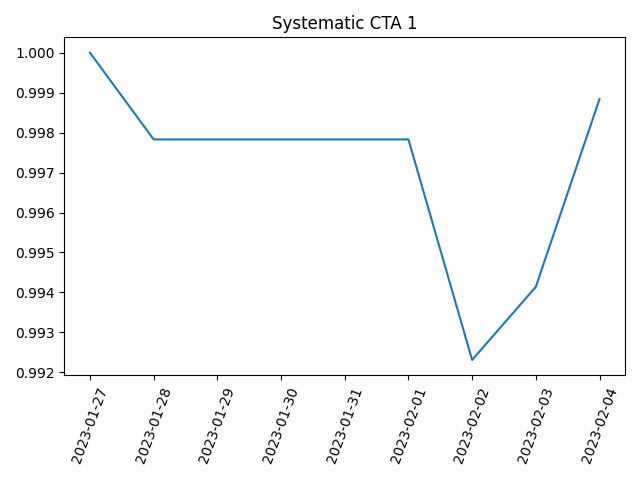
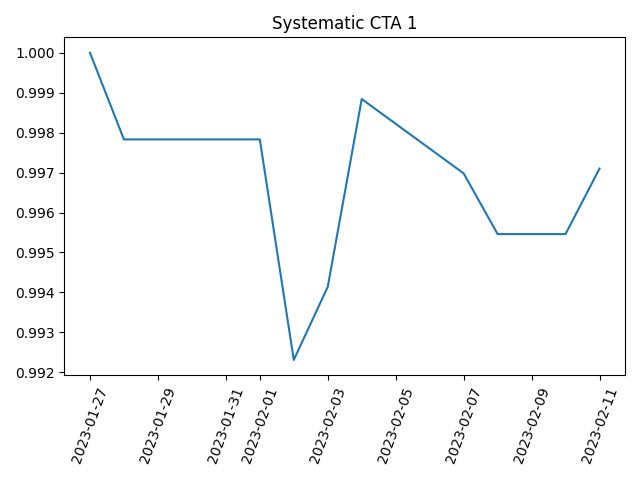
Add records

diff --git a/_posts/2023-01-29-2023-trades.md b/_posts/2023-01-29-2023-trades.md
@@ -12,40 +12,231 @@ hidden: true
 ## Equity Curve (Live Trading)
 ![Markdown Image][1]
 
-## Jan 30 (Mon)- Feb 5 (Sun)	
+## Feb 6 (Mon)- Feb 12 (Sun)	
 <table border="1" class="dataframe">
   <thead>
     <tr style="text-align: right;">
-      <th>datetime</th>
-      <th>bar_datetime</th>
-      <th>strategy_portfolio_value</th>
+      <th></th>
+      <th>metrics</th>
     </tr>
   </thead>
   <tbody>
     <tr>
-      <td>2023-01-31 02:59:40</td>
-      <td>2023-01-31 03:00:00</td>
-      <td>0.99783</td>
+      <th>start_date</th>
+      <td>2023-02-07</td>
     </tr>
     <tr>
-      <td>2023-02-01 02:59:48</td>
-      <td>2023-02-01 03:00:00</td>
-      <td>0.99783</td>
+      <th>end_date</th>
+      <td>2023-02-11</td>
     </tr>
     <tr>
-      <td>2023-02-02 02:59:24</td>
-      <td>2023-02-02 03:00:00</td>
-      <td>0.99231</td>
+      <th>num_calendar_days</th>
+      <td>4</td>
     </tr>
     <tr>
-      <td>2023-02-03 02:59:34</td>
-      <td>2023-02-03 03:00:00</td>
-      <td>0.99414</td>
+      <th>num_trade_days</th>
+      <td>5</td>
     </tr>
     <tr>
-      <td>2023-02-04 02:59:46</td>
-      <td>2023-02-04 03:00:00</td>
-      <td>0.99884</td>
+      <th>num_trades</th>
+      <td>4</td>
+    </tr>
+    <tr>
+      <th>win_ratio</th>
+      <td>50.00%</td>
+    </tr>
+    <tr>
+      <th>pnl_per_trade</th>
+      <td>-357.50</td>
+    </tr>
+    <tr>
+      <th>max_pnl_trade</th>
+      <td>1770.00</td>
+    </tr>
+    <tr>
+      <th>min_pnl_trade</th>
+      <td>-3000.00</td>
+    </tr>
+    <tr>
+      <th>pct_pnl_per_trade</th>
+      <td>-0.02%</td>
+    </tr>
+    <tr>
+      <th>max_pct_pnl_trade</th>
+      <td>0.36%</td>
+    </tr>
+    <tr>
+      <th>min_pct_pnl_trade</th>
+      <td>-0.47%</td>
+    </tr>
+    <tr>
+      <th>avg_holding_period</th>
+      <td>276.75</td>
+    </tr>
+  </tbody>
+</table>
+
+<table border="1" class="dataframe">
+  <thead>
+    <tr style="text-align: right;">
+      <th>datetime</th>
+      <th>actions</th>
+    </tr>
+  </thead>
+  <tbody>
+    <tr>
+      <td>2023-02-06 15:16:28</td>
+      <td>[{'no': 1, 'sec': 'HK.HHImain', 'qty': 1, 'side': 'SHORT', 'close': 7203.0, 'offset': 'OPEN'}]</td>
+    </tr>
+    <tr>
+      <td>2023-02-06 23:46:56</td>
+      <td>[{'no': 1, 'sec': 'HK.MHImain', 'qty': 3, 'side': 'SHORT', 'close': 21138.0, 'offset': 'OPEN'}]</td>
+    </tr>
+    <tr>
+      <td>2023-02-06 23:51:56</td>
+      <td>[{'no': 1, 'sec': 'HK.HHImain', 'qty': 1, 'side': 'LONG', 'close': 7177.0, 'offset': 'CLOSE'}]</td>
+    </tr>
+    <tr>
+      <td>2023-02-07 00:22:58</td>
+      <td>[{'no': 1, 'sec': 'HK.MHImain', 'qty': 3, 'side': 'LONG', 'close': 21238.0, 'offset': 'CLOSE'}]</td>
+    </tr>
+    <tr>
+      <td>2023-02-07 23:46:46</td>
+      <td>[{'no': 1, 'sec': 'HK.MHImain', 'qty': 3, 'side': 'SHORT', 'close': 21240.0, 'offset': 'OPEN'}]</td>
+    </tr>
+    <tr>
+      <td>2023-02-08 01:48:53</td>
+      <td>[{'no': 1, 'sec': 'HK.MHImain', 'qty': 3, 'side': 'LONG', 'close': 21290.0, 'offset': 'CLOSE'}]</td>
+    </tr>
+    <tr>
+      <td>2023-02-10 15:01:58</td>
+      <td>[{'no': 1, 'sec': 'HK.MHImain', 'qty': 3, 'side': 'SHORT', 'close': 21253.0, 'offset': 'OPEN'}]</td>
+    </tr>
+    <tr>
+      <td>2023-02-10 22:15:21</td>
+      <td>[{'no': 1, 'sec': 'HK.MHImain', 'qty': 3, 'side': 'LONG', 'close': 21194.0, 'offset': 'CLOSE'}]</td>
+    </tr>
+  </tbody>
+</table>
+## Jan 30 (Mon)- Feb 5 (Sun)	
+<table border="1" class="dataframe">
+  <thead>
+    <tr style="text-align: right;">
+      <th></th>
+      <th>metrics</th>
+    </tr>
+  </thead>
+  <tbody>
+    <tr>
+      <th>start_date</th>
+      <td>2023-01-31</td>
+    </tr>
+    <tr>
+      <th>end_date</th>
+      <td>2023-02-04</td>
+    </tr>
+    <tr>
+      <th>num_calendar_days</th>
+      <td>4</td>
+    </tr>
+    <tr>
+      <th>num_trade_days</th>
+      <td>5</td>
+    </tr>
+    <tr>
+      <th>num_trades</th>
+      <td>7</td>
+    </tr>
+    <tr>
+      <th>win_ratio</th>
+      <td>57.14%</td>
+    </tr>
+    <tr>
+      <th>pnl_per_trade</th>
+      <td>285.71</td>
+    </tr>
+    <tr>
+      <th>max_pnl_trade</th>
+      <td>3990.00</td>
+    </tr>
+    <tr>
+      <th>min_pnl_trade</th>
+      <td>-2970.00</td>
+    </tr>
+    <tr>
+      <th>pct_pnl_per_trade</th>
+      <td>0.02%</td>
+    </tr>
+    <tr>
+      <th>max_pct_pnl_trade</th>
+      <td>0.60%</td>
+    </tr>
+    <tr>
+      <th>min_pct_pnl_trade</th>
+      <td>-0.51%</td>
+    </tr>
+    <tr>
+      <th>avg_holding_period</th>
+      <td>208.10</td>
+    </tr>
+  </tbody>
+</table>
+
+<table border="1" class="dataframe">
+  <thead>
+    <tr style="text-align: right;">
+      <th>datetime</th>
+      <th>actions</th>
+    </tr>
+  </thead>
+  <tbody>
+    <tr>
+      <td>2023-02-01 11:16:38</td>
+      <td>[{'no': 1, 'sec': 'HK.MHImain', 'qty': 3, 'side': 'SHORT', 'close': 21958.0, 'offset': 'OPEN'}]</td>
+    </tr>
+    <tr>
+      <td>2023-02-01 13:54:44</td>
+      <td>[{'no': 1, 'sec': 'HK.MHImain', 'qty': 3, 'side': 'LONG', 'close': 22035.0, 'offset': 'CLOSE'}]</td>
+    </tr>
+    <tr>
+      <td>2023-02-01 18:31:58</td>
+      <td>[{'no': 1, 'sec': 'HK.MHImain', 'qty': 3, 'side': 'SHORT', 'close': 22055.0, 'offset': 'OPEN'}]</td>
+    </tr>
+    <tr>
+      <td>2023-02-01 22:41:13</td>
+      <td>[{'no': 1, 'sec': 'HK.MHImain', 'qty': 3, 'side': 'LONG', 'close': 22154.0, 'offset': 'CLOSE'}]</td>
+    </tr>
+    <tr>
+      <td>2023-02-02 17:17:04</td>
+      <td>[{'no': 1, 'sec': 'HK.MHImain', 'qty': 3, 'side': 'SHORT', 'close': 22064.0, 'offset': 'OPEN'}]</td>
+    </tr>
+    <tr>
+      <td>2023-02-02 23:16:26</td>
+      <td>[{'no': 1, 'sec': 'HK.HHImain', 'qty': 1, 'side': 'SHORT', 'close': 7464.0, 'offset': 'OPEN'}]</td>
+    </tr>
+    <tr>
+      <td>2023-02-02 23:56:33</td>
+      <td>[{'no': 1, 'sec': 'HK.MHImain', 'qty': 3, 'side': 'LONG', 'close': 21931.0, 'offset': 'CLOSE'}, {'no': 1, 'sec': 'HK.HHImain', 'qty': 1, 'side': 'LONG', 'close': 7502.0, 'offset': 'CLOSE'}]</td>
+    </tr>
+    <tr>
+      <td>2023-02-03 17:46:17</td>
+      <td>[{'no': 1, 'sec': 'HK.HHImain', 'qty': 1, 'side': 'SHORT', 'close': 7417.0, 'offset': 'OPEN'}]</td>
+    </tr>
+    <tr>
+      <td>2023-02-03 18:01:18</td>
+      <td>[{'no': 1, 'sec': 'HK.MHImain', 'qty': 3, 'side': 'SHORT', 'close': 21748.0, 'offset': 'OPEN'}]</td>
+    </tr>
+    <tr>
+      <td>2023-02-03 22:43:39</td>
+      <td>[{'no': 1, 'sec': 'HK.MHImain', 'qty': 3, 'side': 'LONG', 'close': 21720.0, 'offset': 'CLOSE'}, {'no': 1, 'sec': 'HK.HHImain', 'qty': 1, 'side': 'LONG', 'close': 7408.0, 'offset': 'CLOSE'}]</td>
+    </tr>
+    <tr>
+      <td>2023-02-03 22:46:35</td>
+      <td>[{'no': 1, 'sec': 'HK.MHImain', 'qty': 3, 'side': 'SHORT', 'close': 21729.0, 'offset': 'OPEN'}]</td>
+    </tr>
+    <tr>
+      <td>2023-02-03 23:16:36</td>
+      <td>[{'no': 1, 'sec': 'HK.MHImain', 'qty': 3, 'side': 'LONG', 'close': 21599.0, 'offset': 'CLOSE'}]</td>
     </tr>
   </tbody>
 </table>
@@ -54,36 +245,93 @@ hidden: true
 <table border="1" class="dataframe">
   <thead>
     <tr style="text-align: right;">
-      <th>datetime</th>
-      <th>bar_datetime</th>
-      <th>strategy_portfolio_value</th>
+      <th></th>
+      <th>metrics</th>
     </tr>
   </thead>
   <tbody>
     <tr>
-      <td>2023-01-31 02:59:40</td>
-      <td>2023-01-31 03:00:00</td>
-      <td>0.99783</td>
+      <th>start_date</th>
+      <td>2023-01-27</td>
     </tr>
     <tr>
-      <td>2023-02-01 02:59:48</td>
-      <td>2023-02-01 03:00:00</td>
-      <td>0.99783</td>
+      <th>end_date</th>
+      <td>2023-01-28</td>
     </tr>
     <tr>
-      <td>2023-02-02 02:59:24</td>
-      <td>2023-02-02 03:00:00</td>
-      <td>0.99231</td>
+      <th>num_calendar_days</th>
+      <td>1</td>
     </tr>
     <tr>
-      <td>2023-02-03 02:59:34</td>
-      <td>2023-02-03 03:00:00</td>
-      <td>0.99414</td>
+      <th>num_trade_days</th>
+      <td>2</td>
     </tr>
     <tr>
-      <td>2023-02-04 02:59:46</td>
-      <td>2023-02-04 03:00:00</td>
-      <td>0.99884</td>
+      <th>num_trades</th>
+      <td>3</td>
+    </tr>
+    <tr>
+      <th>win_ratio</th>
+      <td>66.67%</td>
+    </tr>
+    <tr>
+      <th>pnl_per_trade</th>
+      <td>976.67</td>
+    </tr>
+    <tr>
+      <th>max_pnl_trade</th>
+      <td>2970.00</td>
+    </tr>
+    <tr>
+      <th>min_pnl_trade</th>
+      <td>-1590.00</td>
+    </tr>
+    <tr>
+      <th>pct_pnl_per_trade</th>
+      <td>0.20%</td>
+    </tr>
+    <tr>
+      <th>max_pct_pnl_trade</th>
+      <td>0.44%</td>
+    </tr>
+    <tr>
+      <th>min_pct_pnl_trade</th>
+      <td>-0.23%</td>
+    </tr>
+    <tr>
+      <th>avg_holding_period</th>
+      <td>372.28</td>
+    </tr>
+  </tbody>
+</table>
+
+<table border="1" class="dataframe">
+  <thead>
+    <tr style="text-align: right;">
+      <th>datetime</th>
+      <th>actions</th>
+    </tr>
+  </thead>
+  <tbody>
+    <tr>
+      <td>2023-01-27 10:35:26</td>
+      <td>[{'no': 1, 'sec': 'HK.MHImain', 'qty': 3, 'side': 'LONG', 'close': 22591.0, 'offset': 'OPEN'}]</td>
+    </tr>
+    <tr>
+      <td>2023-01-27 11:38:30</td>
+      <td>[{'no': 1, 'sec': 'HK.MHImain', 'qty': 3, 'side': 'SHORT', 'close': 22538.0, 'offset': 'CLOSE'}]</td>
+    </tr>
+    <tr>
+      <td>2023-01-27 14:46:43</td>
+      <td>[{'no': 1, 'sec': 'HK.MHImain', 'qty': 3, 'side': 'LONG', 'close': 22603.0, 'offset': 'OPEN'}, {'no': 1, 'sec': 'HK.HHImain', 'qty': 1, 'side': 'LONG', 'close': 7739.0, 'offset': 'OPEN'}]</td>
+    </tr>
+    <tr>
+      <td>2023-01-27 23:32:06</td>
+      <td>[{'no': 1, 'sec': 'HK.HHImain', 'qty': 1, 'side': 'SHORT', 'close': 7770.0, 'offset': 'CLOSE'}]</td>
+    </tr>
+    <tr>
+      <td>2023-01-27 23:35:06</td>
+      <td>[{'no': 1, 'sec': 'HK.MHImain', 'qty': 3, 'side': 'SHORT', 'close': 22702.0, 'offset': 'CLOSE'}]</td>
     </tr>
   </tbody>
 </table>
